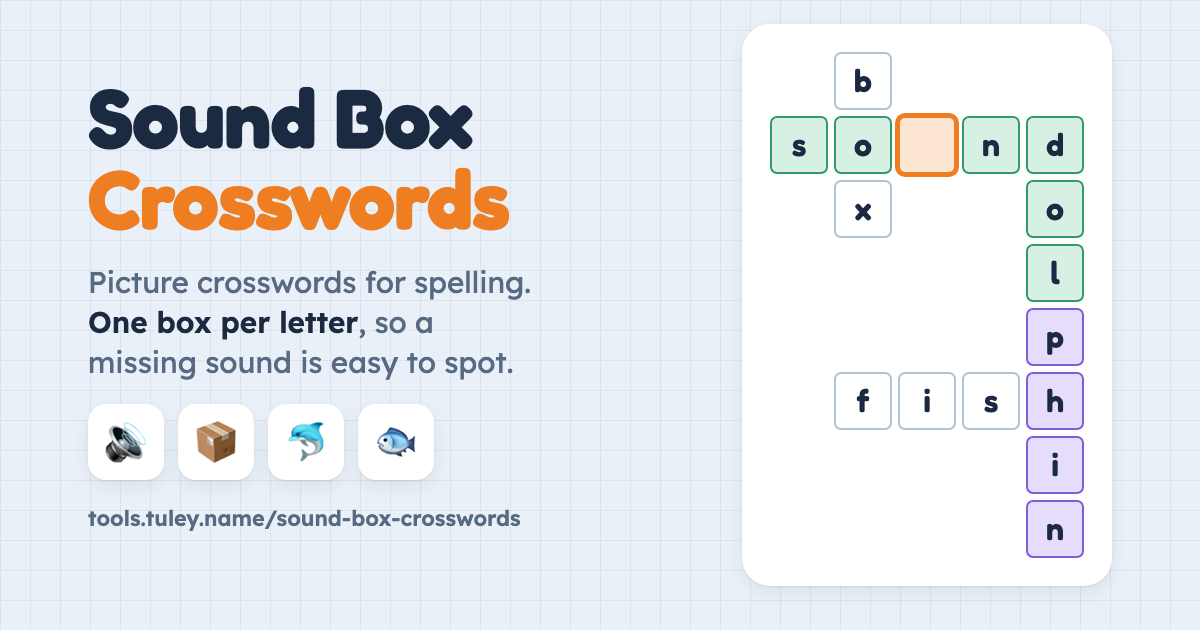
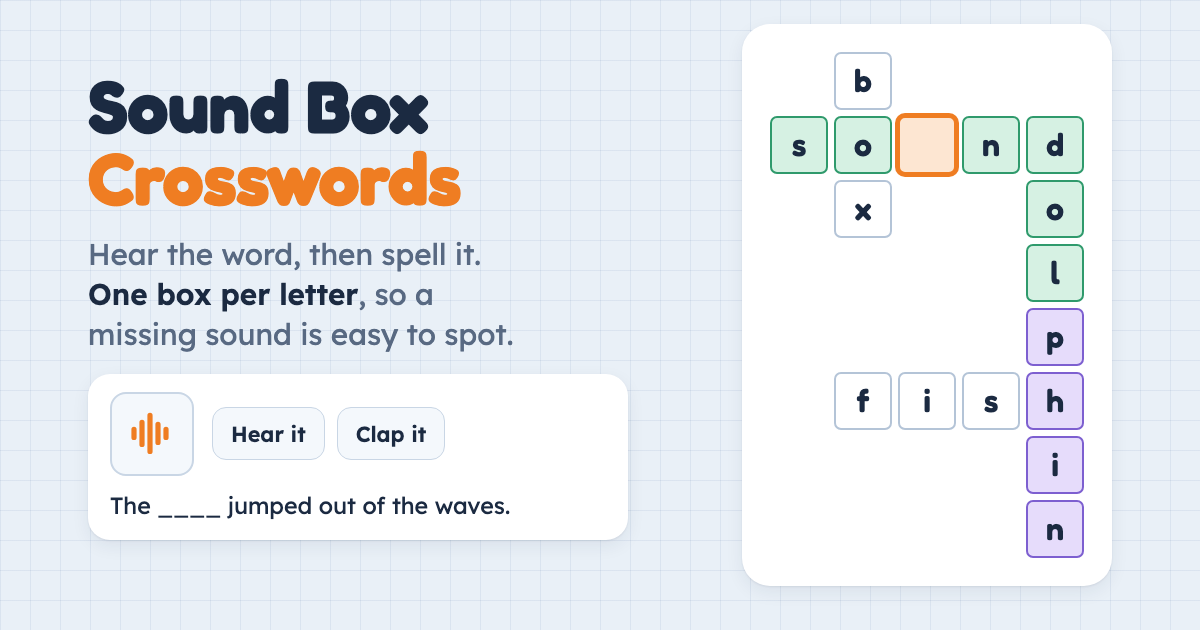
Social card: lead with the spoken word, drop the address
Clues can be a picture or a spoken sentence, so the card shows the app's
listen-only clue (sound wave, Hear it, Clap it, the sentence with a blank)
instead of emoji tiles, and the tagline starts with hearing the word. The
address is gone from the image; the preview shows it anyway.

Changed region(s): [[0.0617, 0.3921, 0.4625, 0.8444], [0.0617, 0.1206, 0.4317, 0.3619], [0.0617, 0.6333, 0.0925, 0.6635]]

diff --git a/scripts/social-card.html b/scripts/social-card.html
@@ -1,7 +1,7 @@
 <!doctype html>
 <!-- The link-preview image (social-card.png, 1200×630). `npm run card` renders this page with
      the app's own stylesheet, so the boxes and colors match. The words here (sound, box,
-     dolphin, fish) aren't pack words: the card must never spell an answer. -->
+     dolphin, fish, and the sentence) aren't pack words: the card must never spell an answer. -->
 <html lang="en" data-theme="light">
 <head>
 <meta charset="utf-8">
@@ -11,13 +11,15 @@
   html, body { width: 1200px; height: 630px; overflow: hidden; }
   body { background-size: 30px 30px; }
   .card { display: flex; align-items: center; gap: 56px; height: 100%; padding: 0 72px; box-sizing: border-box; }
-  .words { flex: 1; display: flex; flex-direction: column; gap: 22px; }
-  h1 { font-size: 5.2rem; line-height: 0.98; }
+  .words { flex: 1; display: flex; flex-direction: column; gap: 20px; }
+  h1 { font-size: 4.6rem; line-height: 0.98; }
   .tag { margin: 0; font-size: 1.85rem; line-height: 1.35; color: var(--muted); max-width: 15em; }
   .tag b { color: var(--ink); font-weight: 600; }
-  .clues { display: flex; gap: 14px; }
-  .clue { width: 76px; height: 76px; display: grid; place-items: center; font-size: 2.6rem; background: var(--card); border-radius: 18px; box-shadow: var(--shadow); }
-  .url { margin: 0; font-size: 1.35rem; font-weight: 600; color: var(--muted); }
+  .clue { display: grid; grid-template-columns: auto 1fr; gap: 14px 18px; align-items: center; background: var(--card); border-radius: 22px; box-shadow: var(--shadow); padding: 18px 22px; max-width: 540px; }
+  .clue .pic { width: 84px; height: 84px; font-size: 3rem; }
+  .clue .tools { display: flex; gap: 12px; }
+  .clue .tool { font-size: 1.35rem; padding: 10px 18px; border-radius: 14px; }
+  .clue .sent { grid-column: 1 / -1; min-height: 0; font-size: 1.45rem; }
   .grid-card { background: var(--card); border-radius: 28px; box-shadow: var(--shadow); padding: 28px; }
   .board { --cell-size: 58px; gap: 6px; grid-template-columns: repeat(5, var(--cell-size)); }
   .cell { font-size: 2rem; }
@@ -28,9 +30,14 @@
 <div class="card">
   <div class="words">
     <h1>Sound Box <span>Crosswords</span></h1>
-    <p class="tag">Picture crosswords for spelling. <b>One box per letter</b>, so a missing sound is easy to spot.</p>
-    <div class="clues" aria-hidden="true"><div class="clue">🔊</div><div class="clue">📦</div><div class="clue">🐬</div><div class="clue">🐟</div></div>
-    <p class="url">tools.tuley.name/sound-box-crosswords</p>
+    <p class="tag">Hear the word, then spell it. <b>One box per letter</b>, so a missing sound is easy to spot.</p>
+    <!-- Like the app's clue bar for a listen-only word: the sound wave, Hear it / Clap it,
+         and the spoken sentence with the word left blank. -->
+    <div class="clue" aria-hidden="true">
+      <div class="pic"><svg class="wave" viewBox="0 0 24 24"><path d="M3 10v4M7 6.5v11M11 3v18M15 7.5v9M19 10v4" fill="none" stroke="currentColor" stroke-width="2.6" stroke-linecap="round"/></svg></div>
+      <div class="tools"><span class="tool">Hear it</span><span class="tool">Clap it</span></div>
+      <p class="sent">The ____ jumped out of the waves.</p>
+    </div>
   </div>
   <div class="grid-card">
     <!-- box down, sound across (one box left empty), dolphin down, fish across -->

diff --git a/index.html b/index.html
@@ -9,12 +9,12 @@
 <meta property="og:type" content="website">
 <meta property="og:site_name" content="Sound Box Crosswords">
 <meta property="og:title" content="Sound Box Crosswords">
-<meta property="og:description" content="Picture crosswords for spelling practice: one box per letter, syllables in color.">
+<meta property="og:description" content="Spelling crosswords: hear the word, then spell it, one box per letter, with syllables in color.">
 <meta property="og:url" content="https://tools.tuley.name/sound-box-crosswords/">
 <meta property="og:image" content="https://tools.tuley.name/sound-box-crosswords/social-card.png">
 <meta property="og:image:width" content="1200">
 <meta property="og:image:height" content="630">
-<meta property="og:image:alt" content="Sound Box Crosswords: a small crossword with one empty box and syllables in green and purple.">
+<meta property="og:image:alt" content="Sound Box Crosswords: a spoken clue with Hear it and Clap it, and a small crossword with one empty box and syllables in green and purple.">
 <meta name="twitter:card" content="summary_large_image">
 <meta name="color-scheme" content="light dark">
 <meta name="theme-color" content="#e9f0f7" media="(prefers-color-scheme: light)">
